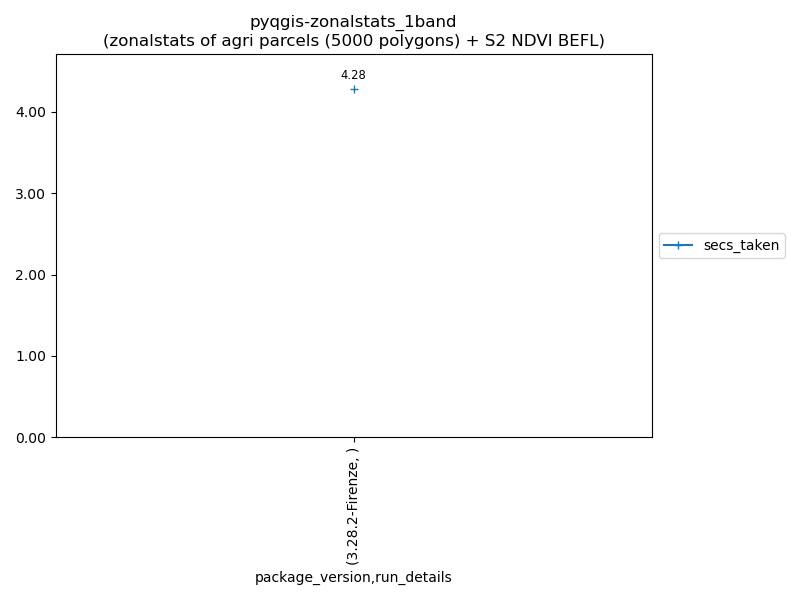
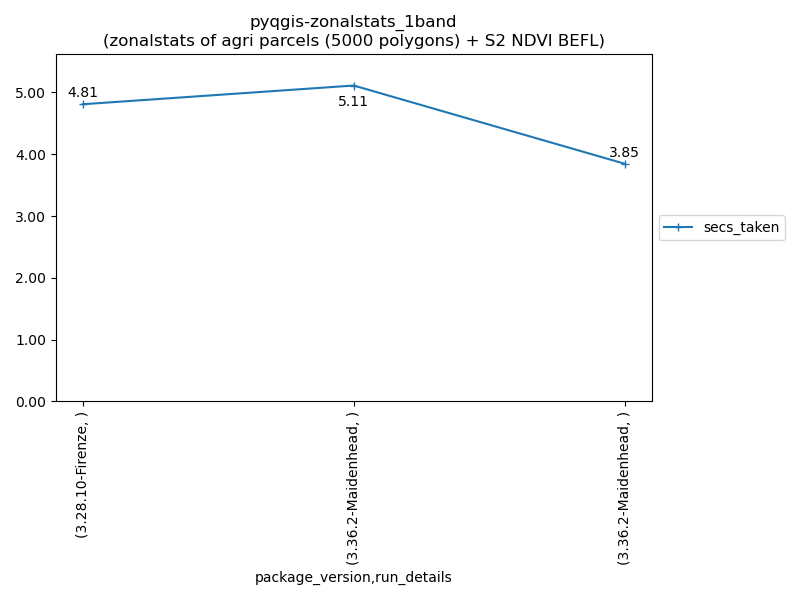
ENH: materialize layer in memory in pyqgis zonal stats (#38)

diff --git a/benchmarks_zonalstats/benchmarks_pyqgis.py b/benchmarks_zonalstats/benchmarks_pyqgis.py
@@ -61,6 +61,14 @@ def zonalstats_1band(tmp_dir: Path) -> List[RunResult]:
     # Reads the input file
     vlayer = qgis.core.QgsVectorLayer(str(vector_tmp_path), vector_tmp_path.stem, "ogr")
 
+    if True:
+        # Materializing the vector layer in memory gives a performance boost of 35%
+        vlayer_mem = vlayer.materialize(
+            qgis.core.QgsFeatureRequest().setFilterFids(vlayer.allFeatureIds())
+        )
+        del vlayer
+        vlayer = vlayer_mem
+
     # Calculates zonal stats with raster
     raster = qgis.core.QgsRasterLayer(str(raster_path))
     stats = (
@@ -86,7 +94,9 @@ def zonalstats_1band(tmp_dir: Path) -> List[RunResult]:
     df = pd.DataFrame(data, columns=columns)
     df["geometry"] = gpd.GeoSeries.from_wkt(df["geometry"])
     stats = gpd.GeoDataFrame(
-        df, geometry="geometry", crs=vlayer.crs().toWkt()  # type: ignore
+        df,
+        geometry="geometry",
+        crs=vlayer.crs().toWkt(),  # type: ignore
     )
     del vlayer
 

diff --git a/reporter.py b/reporter.py
@@ -262,7 +262,8 @@ def save_chart(
 
 
 if __name__ == "__main__":
-    results_dir = Path(__file__).resolve().parent / "results_vector_ops"
+    #results_dir = Path(__file__).resolve().parent / "results_vector_ops"
+    results_dir = Path(__file__).resolve().parent / "results_zonalstats"
     results_path = results_dir / "benchmark_results.csv"
     output_dir = results_dir
     generate_reports(results_path, output_dir)

diff --git a/run_benchmarks_zonalstats.py b/run_benchmarks_zonalstats.py
@@ -2,7 +2,7 @@ import benchmarker
 
 
 def main():
-    all_benchmarks = True
+    all_benchmarks = False
     if not all_benchmarks:
         # debug: only run specific benchmark modules/function(s)
         benchmarker.run_benchmarks(
